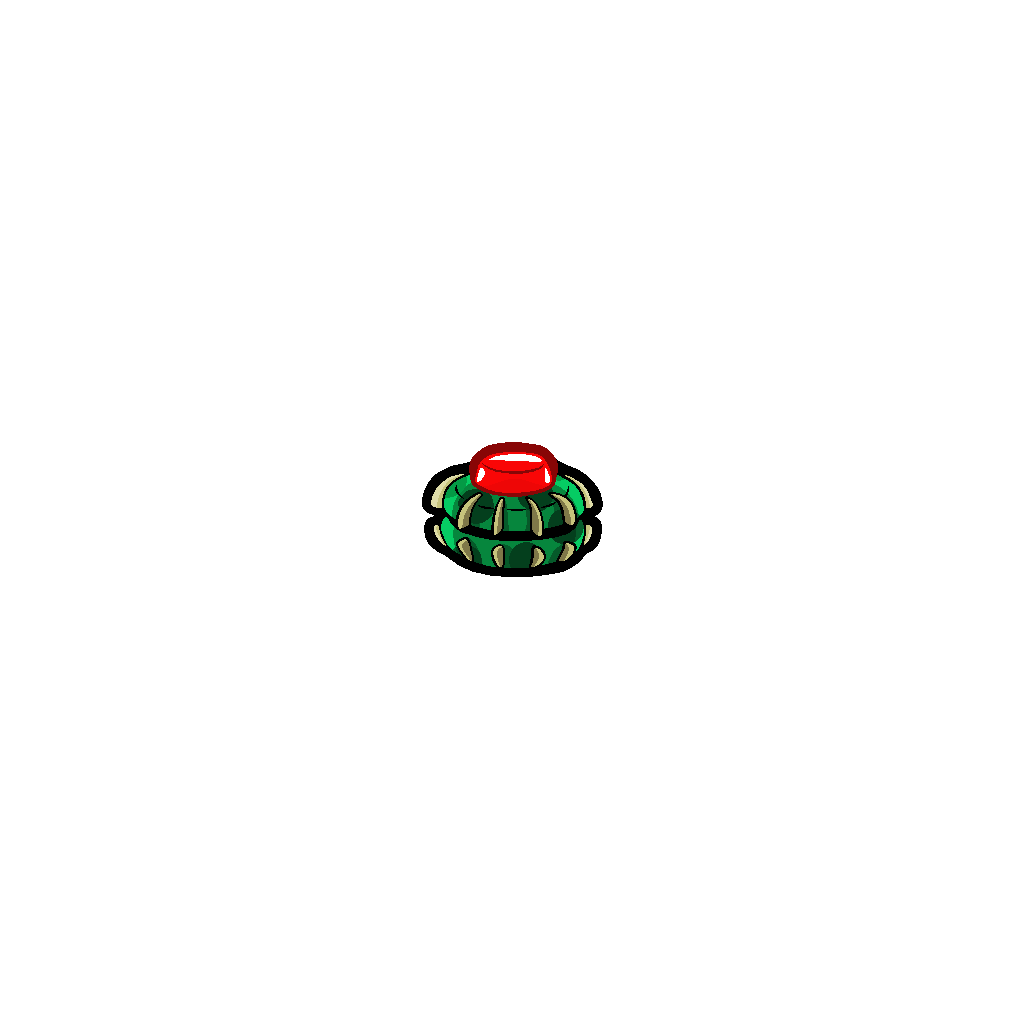
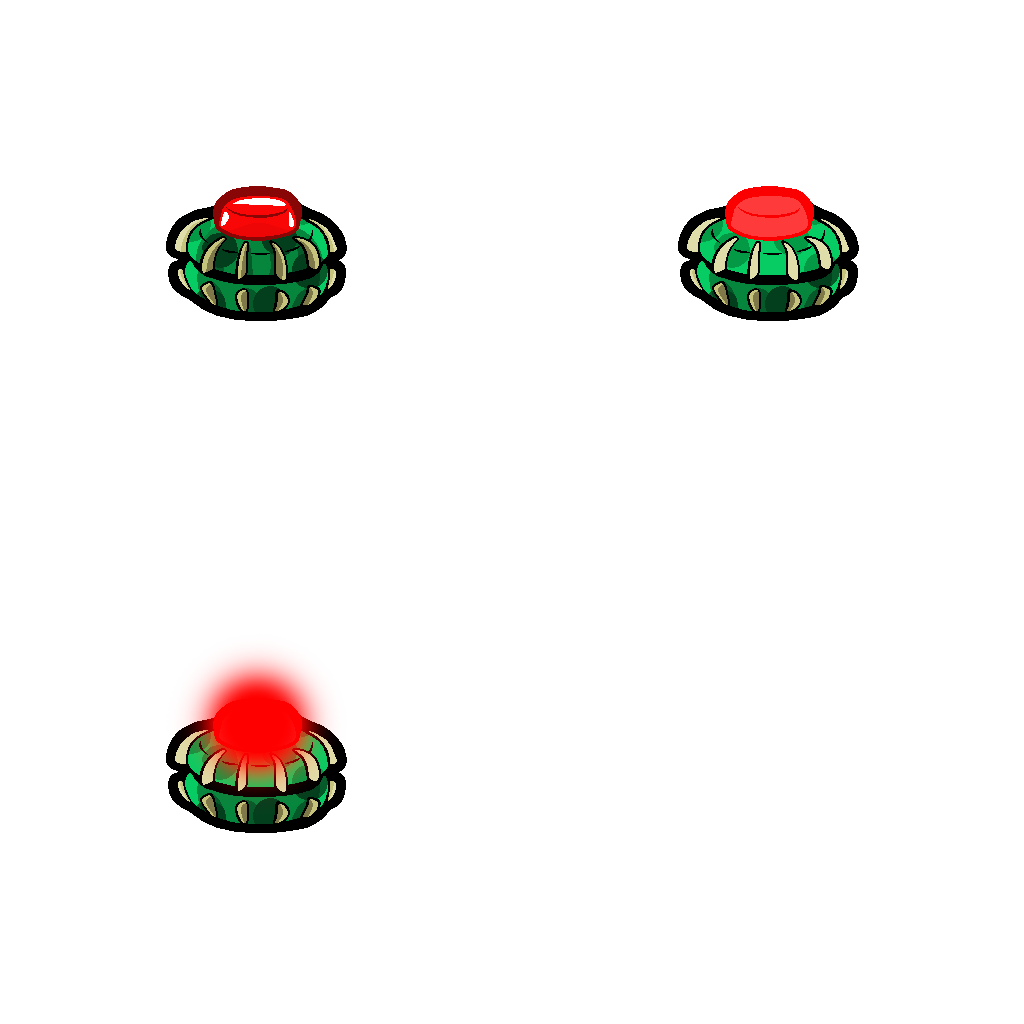
+ land mines

diff --git a/frontend/Assets/Scripts/Battle/Objects/Projectiles/Landmine.cs b/frontend/Assets/Scripts/Battle/Objects/Projectiles/Landmine.cs
@@ -23,11 +23,11 @@ namespace Battle.Objects.Projectiles {
             var transform = GameObject.transform;
             var assets = The.BattleAssets;
 
-            var canvas = UnityEngine.Object.Instantiate(assets.TopCanvas, transform, false);
-            canvas.transform.localPosition += new Vector3(0, 5, 0);
-            canvas.transform.localScale = new Vector3(0.7f, 0.7f, 1f);
+//            var canvas = UnityEngine.Object.Instantiate(assets.TopCanvas, transform, false);
+//            canvas.transform.localPosition += new Vector3(0, 5, 0);
+//            canvas.transform.localScale = new Vector3(0.7f, 0.7f, 1f);
 
-            var timerText = UnityEngine.Object.Instantiate(assets.Text, canvas.transform, false).GetComponent<Text>();
+//            var timerText = UnityEngine.Object.Instantiate(assets.Text, canvas.transform, false).GetComponent<Text>();
 
             UnityEngine.Object.Instantiate(assets.Landmine, transform, false);
             AddCollider(new CircleCollider(XY.Zero, Radius));
@@ -39,10 +39,8 @@ namespace Battle.Objects.Projectiles {
 
 
         public override void ReceiveBlastWave (XY impulse) {
-//            var controller = (LandmineController) Controller;
-//            controller.Stuck = false;
             Controller = new LandmineController();
-            CollisionHandler = new LandmineCH();
+            CollisionHandler = new CollisionHandler();
             base.ReceiveBlastWave(impulse);
         }
 

diff --git a/frontend/Assets/Scripts/Battle/Objects/Controllers/LandmineControllerStuck.cs b/frontend/Assets/Scripts/Battle/Objects/Controllers/LandmineControllerStuck.cs
@@ -27,8 +27,8 @@ namespace Battle.Objects.Controllers {
             for (int x = tiles.Left; x < tiles.Right; x++)
             for (int y = tiles.Bottom; y < tiles.Top; y++) {
                 foreach (var c in _world.Tiles[x, y].Colliders) {
-                    if (collider.Object == Object) continue;
-                    if (collider.Overlaps(c)) goto found;
+                    if (c.Object == Object) continue;
+                    if (c.Overlaps(collider)) goto found;
                 }
             }
             const float rr = Landmine.StickCheckRadius * Landmine.StickCheckRadius;
@@ -40,14 +40,14 @@ namespace Battle.Objects.Controllers {
                 }
             }
             Object.Controller = new LandmineController();
-            Object.CollisionHandler = new LandmineCH();
+//            Object.CollisionHandler = new CollisionHandler();
             found:
             // do nothing
             Object.RemoveCollider(collider);
 
             var mine = (Landmine) Object;
             if (Object.Timer == null && mine.CheckWormsPresence(Landmine.ActivationRadius)) {
-                Object.Timer = new DetonationTimer(new Time {Seconds = 2});
+                Object.Timer = new LandmineDetonationTimer(new Time{Seconds = 2});
                 Wait();
             }
         }

diff --git a/frontend/Assets/Scripts/Battle/Objects/Timers/LandmineDetonationTimer.cs b/frontend/Assets/Scripts/Battle/Objects/Timers/LandmineDetonationTimer.cs
@@ -1,12 +1,34 @@
-using Core;
-using UnityEngine.UI;
+using UnityEngine;
+using Time = Core.Time;
 
 
 namespace Battle.Objects.Timers {
 
     public class LandmineDetonationTimer : DetonationTimer {
 
+        private Animator _animator;
+
+
         public LandmineDetonationTimer (Time time) : base(time) {}
+
+
+        public override void OnAdd () {
+            _animator = Object.GameObject.GetComponentInChildren<Animator>();
+        }
+
+
+        protected override void OnTick () {
+            base.OnTick();
+            float seconds = Time.Seconds;
+            if (seconds > 1) {
+                int i = Mathf.CeilToInt(seconds * 4);
+                _animator.SetInteger("Frame", 2 - (i & 1));
+            }
+            else {
+                int i = Mathf.CeilToInt(seconds * 12);
+                _animator.SetInteger("Frame", 2 - (i & 1));
+            }
+        }
 
     }
 

diff --git a/frontend/Assets/Scripts/Battle/Objects/Controllers/WormControllerFall.cs b/frontend/Assets/Scripts/Battle/Objects/Controllers/WormControllerFall.cs
@@ -10,6 +10,11 @@ namespace Battle.Objects.Controllers {
         private Time _control;
 
 
+        public WormControllerFall () {
+            WaitFlag = true;
+        }
+        
+
         public override void OnAdd () {
             Object.CollisionHandler = new WormFallCollisionHandler();
         }
@@ -19,7 +24,7 @@ namespace Battle.Objects.Controllers {
             base.DoUpdate(td);
             var worm = (Worm) Object;
             worm.Name = "fall";
-            Wait();
+//            Wait();
 
             if (Object.Velocity.SqrLength < 1) _control.Ticks++;
             

diff --git a/frontend/Assets/Scripts/Battle/Objects/Controllers/WormControllerJump.cs b/frontend/Assets/Scripts/Battle/Objects/Controllers/WormControllerJump.cs
@@ -6,6 +6,11 @@ namespace Battle.Objects.Controllers {
 
     public class WormControllerJump : StandardController {
 
+        public WormControllerJump () {
+            WaitFlag = true;
+        }
+        
+        
         public override void OnAdd () {
             Object.CollisionHandler = new WormJumpCollisionHandler();
         }
@@ -14,7 +19,6 @@ namespace Battle.Objects.Controllers {
         protected override void DoUpdate (TurnData td) {
             ((Worm) Object).Name = "jump";
             base.DoUpdate(td);
-            Wait();
         }
 
 

diff --git a/frontend/Assets/Scripts/Battle/Objects/Controllers/LandmineController.cs b/frontend/Assets/Scripts/Battle/Objects/Controllers/LandmineController.cs
@@ -35,7 +35,7 @@ namespace Battle.Objects.Controllers {
             }
             var mine = (Landmine) Object;
             if (Object.Timer == null && mine.CheckWormsPresence(Landmine.ActivationRadius)) {
-                Object.Timer = new DetonationTimer(new Time{Seconds = 2});
+                Object.Timer = new LandmineDetonationTimer(new Time{Seconds = 2});
                 Wait();
             }
         }

diff --git a/frontend/Assets/Scripts/Battle/Objects/Controllers/SmokeController.cs b/frontend/Assets/Scripts/Battle/Objects/Controllers/SmokeController.cs
@@ -38,7 +38,7 @@ namespace Battle.Objects.Controllers {
 
 
         protected override void DoUpdate (TurnData td) {
-            Object.Velocity = XY.Lerp(Object.Velocity, new XY(0, 0.5f), 1 / InvLerpCoeff);
+            Object.Velocity = XY.Lerp(Object.Velocity, new XY(5, 0.5f), 1 / InvLerpCoeff);
             Size -= 1f;
         }
 
